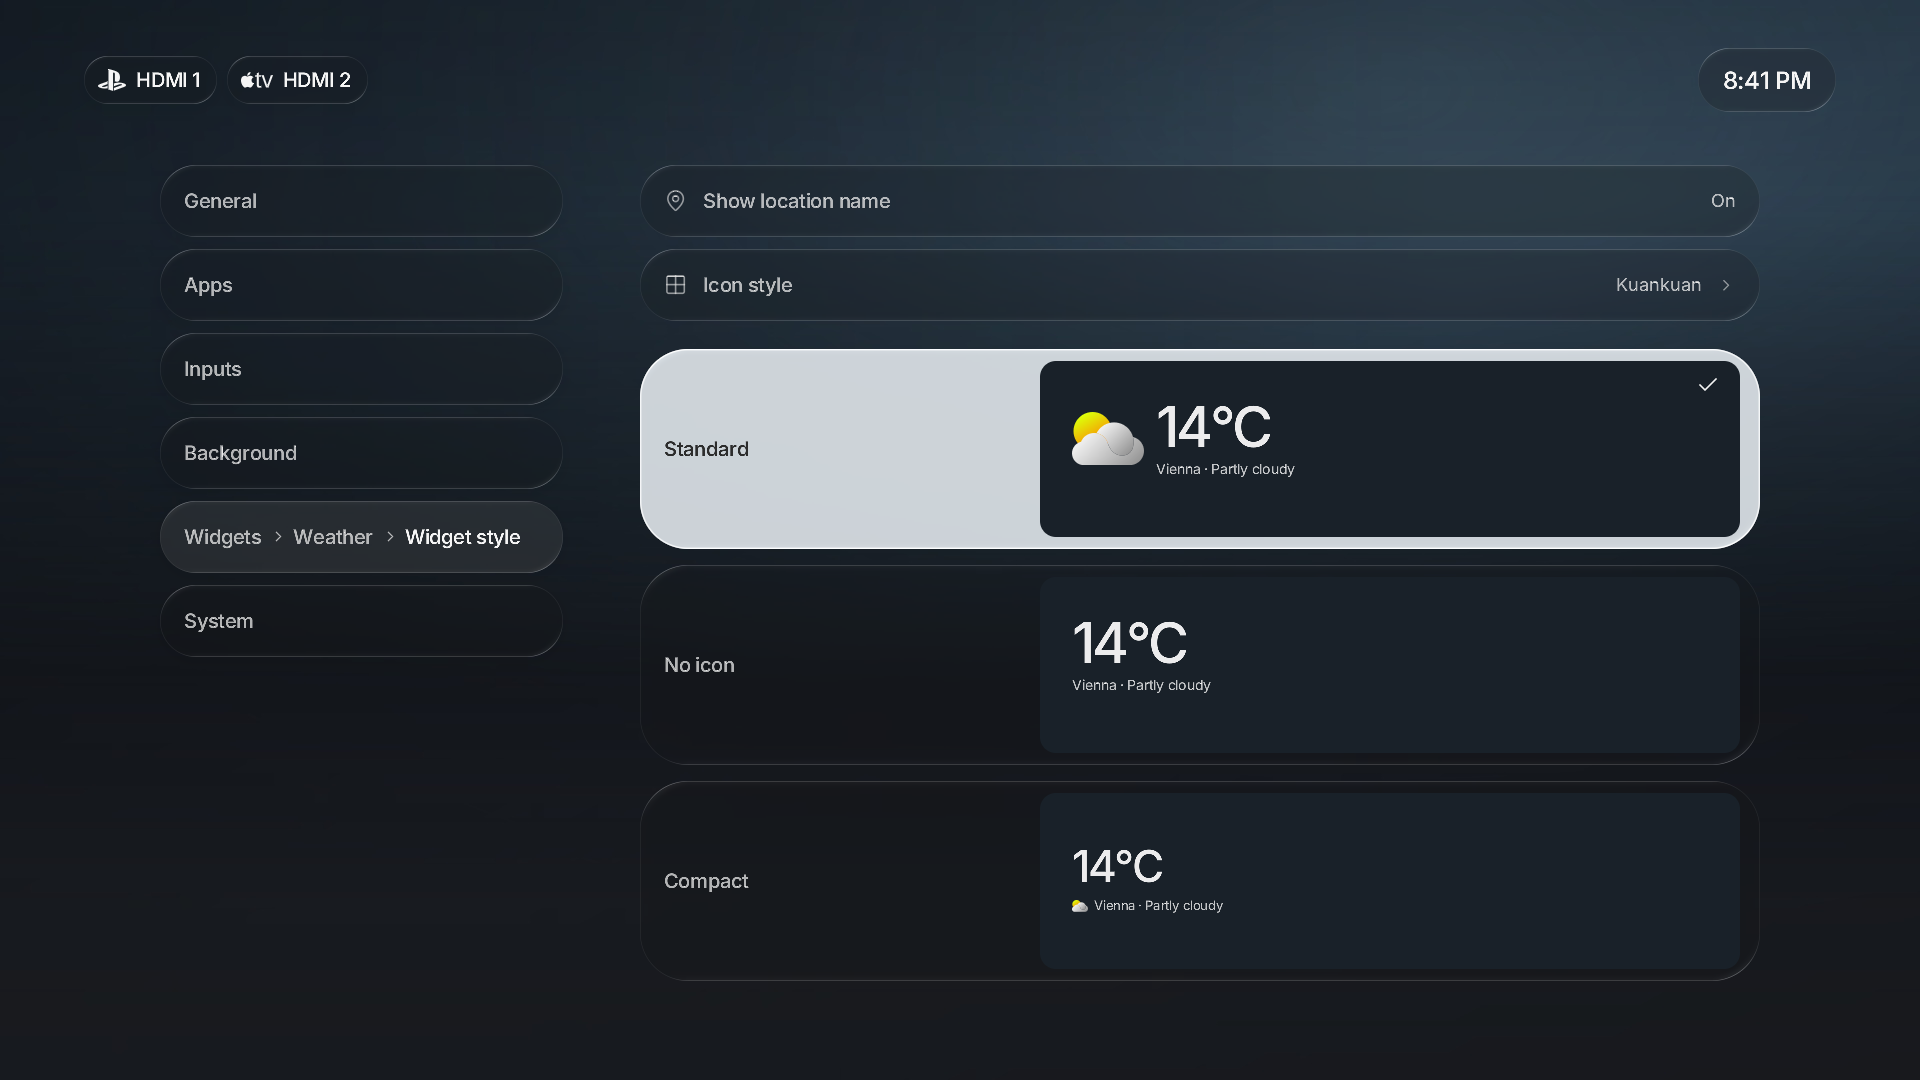
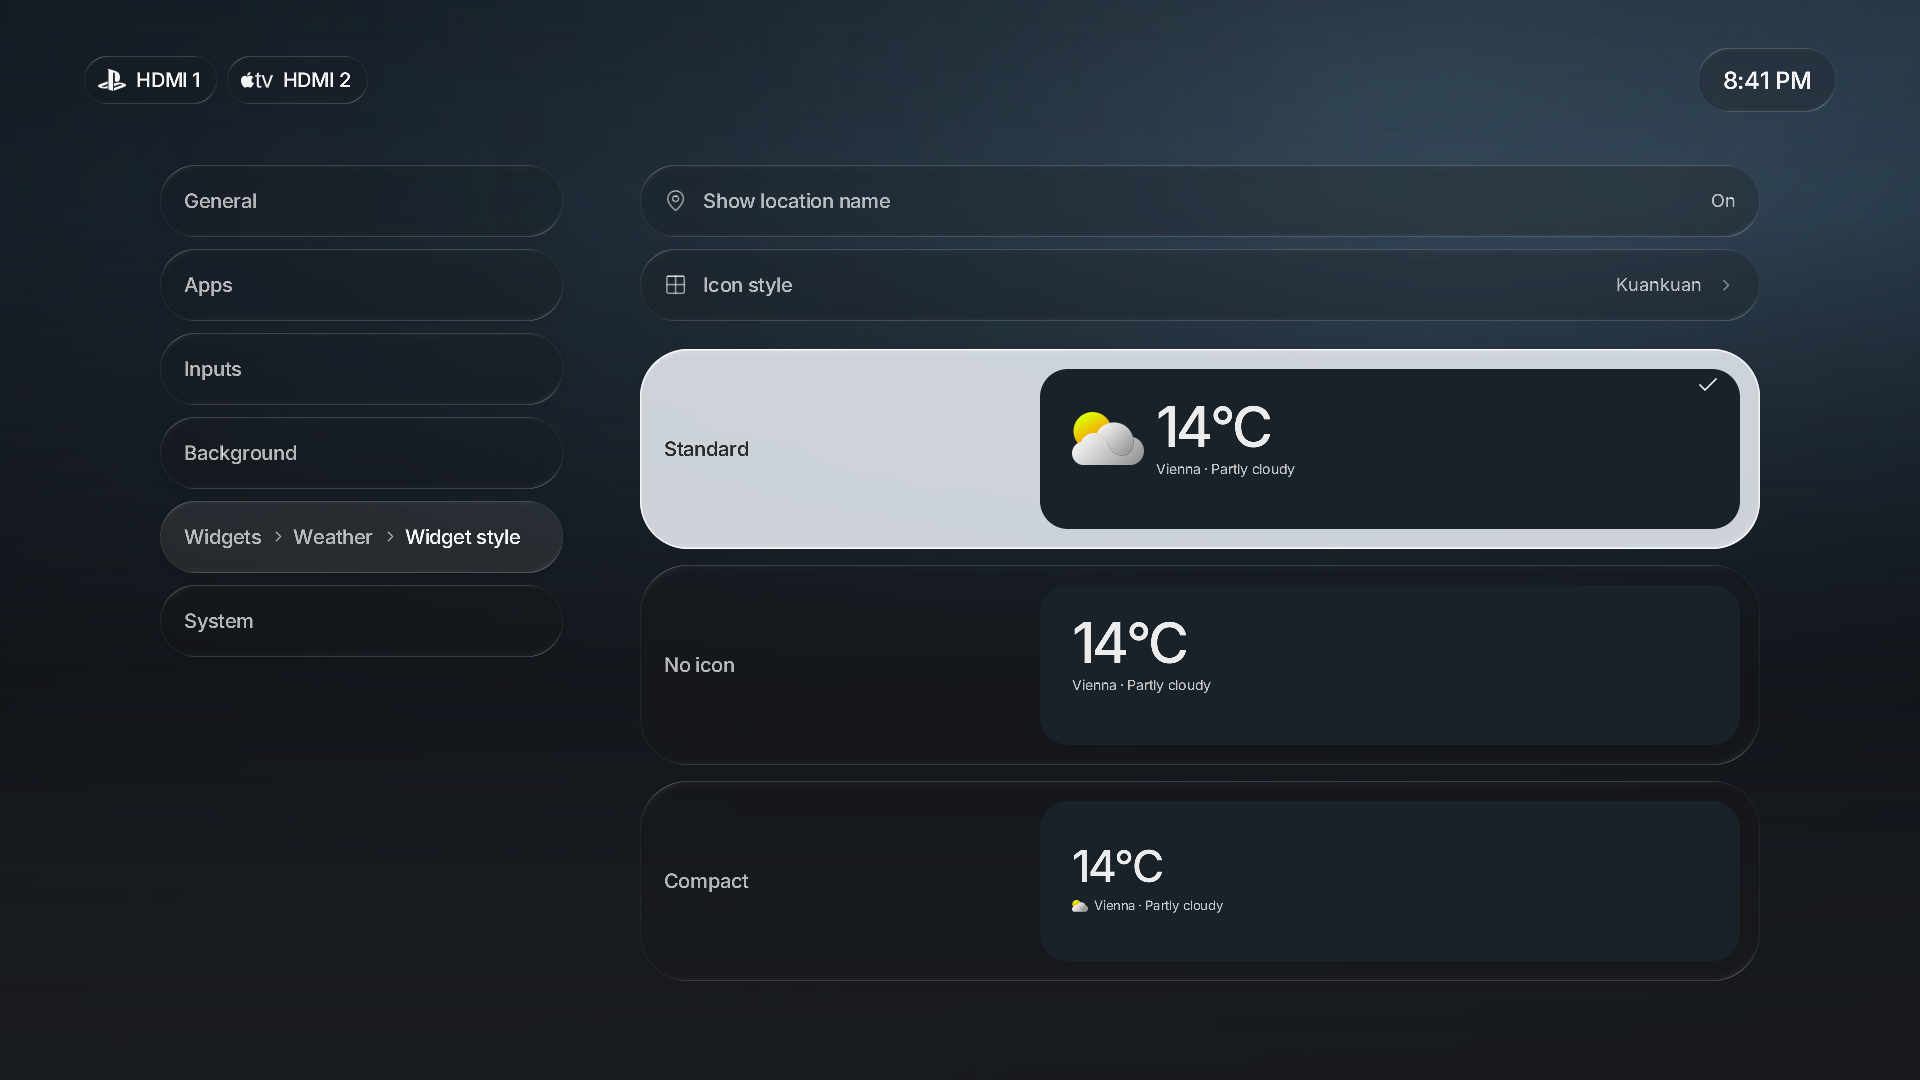
fix(weather): match preview inset and row corner radii

Changed region(s): [[0.5312, 0.4889, 0.9062, 0.5194], [0.5312, 0.3361, 0.9062, 0.3667]]

diff --git a/src/weather-style-tests.rs b/src/weather-style-tests.rs
@@ -135,6 +135,31 @@ fn icon_picker_has_compact_rows_and_sidebar_keeps_only_the_last_three_levels() {
 }
 
 #[test]
+fn weather_picker_insets_match_outer_corner_radii() {
+    for subpage in [Subpage::WeatherIcons, Subpage::WeatherStyle] {
+        let mut state = configured();
+        state.open(2);
+        state.section = WIDGETS_SECTION;
+        state.subpage = Some(subpage);
+        let rendered = scene(&state);
+        for row in rendered
+            .controls
+            .iter()
+            .filter(|control| matches!(control.target, Target::Choice(_)))
+        {
+            assert!(rendered.draw.iter().any(|draw| matches!(draw,
+                Draw::Shape(inner, radius, ..)
+                    if inner.x == 1040.
+                    && inner.y == row.rect.y + 20.
+                    && inner.w == 700.
+                    && inner.h == row.rect.h - 40.
+                    && *radius == 48. - 20.
+            )));
+        }
+    }
+}
+
+#[test]
 fn weather_icon_preferences_default_to_breezy_and_round_trip_per_instance() {
     use crate::model::{HomeWidget, WeatherIconStyle};
     let old: Preferences = serde_json::from_str(r#"{"extra_weather":[{}]}"#).unwrap();

diff --git a/src/view.rs b/src/view.rs
@@ -2342,8 +2342,8 @@ fn weather_icon_settings(out: &mut Scene, state: &State, assets: &Assets) {
             },
         );
         out.shape(
-            Rect::new(1040., rect.y + 12., 700., 88.),
-            16.,
+            Rect::new(1040., rect.y + 20., 700., rect.h - 40.),
+            28.,
             c(0x192129, 1.),
         );
         for (position, condition) in ["sun", "partly-cloudy", "rain", "snow", "moon"]
@@ -2434,8 +2434,9 @@ fn weather_style_settings(out: &mut Scene, state: &State, assets: &Assets) {
             },
         );
         // A dark inset keeps the weather preview separate from the row's focus treatment.
-        let preview = Rect::new(1040., rect.y + 12., 700., 176.);
-        out.shape(preview, 16., c(0x192129, 1.));
+        // Match the outer 48px corners with a 20px inset: 48 - 20 = 28.
+        let preview = Rect::new(1040., rect.y + 20., 700., rect.h - 40.);
+        out.shape(preview, 28., c(0x192129, 1.));
         let summary = weather_summary_layout_for(state, assets, style, true, state.active_weather);
         let scale = 0.5_f32.min((preview.w - 64.) / summary.width);
         paint_weather_summary(

diff --git a/development.md b/development.md
@@ -371,7 +371,8 @@ The weekday/date is part of the combined Greeting, not a standalone widget. Weat
 own fixed footprint with a large condition icon, temperature, condition and optional location.
 Breezy Weather remains the default icon style. Weather → Widget style → Icon style offers Breezy Weather,
 Lucide, Kickstand and Kuankuan with offline condition samples in compact 112-pixel picker rows
-with 64-pixel icons. Sidebar breadcrumbs show at most the
+with 64-pixel icons. Both weather pickers use 20-pixel preview insets with 28-pixel
+inner corner radii to match the rows' 48-pixel outer corners. Sidebar breadcrumbs show at most the
 last three levels, retaining the current page and its closest parents. `weather_icons` stores the primary
 choice; additional instances use `icons`. Lucide, Kickstand and Kuankuan compile to vector meshes;
 Breezy retains its original PNGs. No icons are fetched at runtime. Sources, licenses, adaptations
